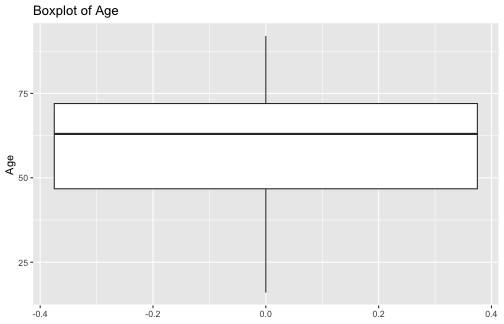
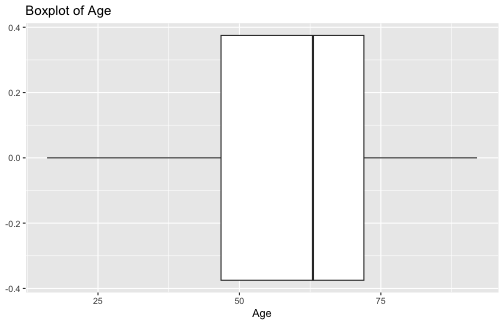
update readme links

diff --git a/Week 2/Week2-Notes.html b/Week 2/Week2-Notes.html
@@ -96,7 +96,7 @@ The "Learning Early About Peanut Allergy" (LEAP) study was conducted to investig
   - Research Question
 &lt;br&gt;
 
-If interested in this topic, you can find more information [here](https://peanutallergyfacts.org/2015/02/25/new-study-suggests-early-introduction-of-peanut-protein-reduces-prevalence-of-allergy-occurrence/)
+If interested in this topic, you can find more information [here](https://www.cnn.com/2024/05/28/health/peanut-allergy-infants-adolescents-wellness/index.html)
 
 ---
 
@@ -2134,6 +2134,108 @@ if (window.HTMLWidgets) slideshow.on('afterShowSlide', function (slide) {
           /* When the user clicks on the modalImg, close it*/
           modalImgicecream2.onclick = function() {
             modalicecream2.style.display = 'none';
+          }
+</script>
+<script>
+        /* Get the modal*/
+          var modalicecream2 = document.getElementById('modalicecream2');
+        /* Get the image and insert it inside the modal - use its 'alt' text as a caption*/
+        var imgicecream2 = document.getElementById('imgicecream2');
+          var modalImgicecream2 = document.getElementById('imgmodalicecream2');
+          var captionTexticecream2 = document.getElementById('captionicecream2');
+          imgicecream2.onclick = function(){
+            modalicecream2.style.display = 'block';
+            modalImgicecream2.src = this.src;
+            captionTexticecream2.innerHTML = this.alt;
+          }
+          /* When the user clicks on the modalImg, close it*/
+          modalImgicecream2.onclick = function() {
+            modalicecream2.style.display = 'none';
+          }
+</script>
+<script>
+        /* Get the modal*/
+          var modalcategorical = document.getElementById('modalcategorical');
+        /* Get the image and insert it inside the modal - use its 'alt' text as a caption*/
+        var imgcategorical = document.getElementById('imgcategorical');
+          var modalImgcategorical = document.getElementById('imgmodalcategorical');
+          var captionTextcategorical = document.getElementById('captioncategorical');
+          imgcategorical.onclick = function(){
+            modalcategorical.style.display = 'block';
+            modalImgcategorical.src = this.src;
+            captionTextcategorical.innerHTML = this.alt;
+          }
+          /* When the user clicks on the modalImg, close it*/
+          modalImgcategorical.onclick = function() {
+            modalcategorical.style.display = 'none';
+          }
+</script>
+<script>
+        /* Get the modal*/
+          var modalnumerical = document.getElementById('modalnumerical');
+        /* Get the image and insert it inside the modal - use its 'alt' text as a caption*/
+        var imgnumerical = document.getElementById('imgnumerical');
+          var modalImgnumerical = document.getElementById('imgmodalnumerical');
+          var captionTextnumerical = document.getElementById('captionnumerical');
+          imgnumerical.onclick = function(){
+            modalnumerical.style.display = 'block';
+            modalImgnumerical.src = this.src;
+            captionTextnumerical.innerHTML = this.alt;
+          }
+          /* When the user clicks on the modalImg, close it*/
+          modalImgnumerical.onclick = function() {
+            modalnumerical.style.display = 'none';
+          }
+</script>
+<script>
+        /* Get the modal*/
+          var modalicecream2 = document.getElementById('modalicecream2');
+        /* Get the image and insert it inside the modal - use its 'alt' text as a caption*/
+        var imgicecream2 = document.getElementById('imgicecream2');
+          var modalImgicecream2 = document.getElementById('imgmodalicecream2');
+          var captionTexticecream2 = document.getElementById('captionicecream2');
+          imgicecream2.onclick = function(){
+            modalicecream2.style.display = 'block';
+            modalImgicecream2.src = this.src;
+            captionTexticecream2.innerHTML = this.alt;
+          }
+          /* When the user clicks on the modalImg, close it*/
+          modalImgicecream2.onclick = function() {
+            modalicecream2.style.display = 'none';
+          }
+</script>
+<script>
+        /* Get the modal*/
+          var modalcategorical = document.getElementById('modalcategorical');
+        /* Get the image and insert it inside the modal - use its 'alt' text as a caption*/
+        var imgcategorical = document.getElementById('imgcategorical');
+          var modalImgcategorical = document.getElementById('imgmodalcategorical');
+          var captionTextcategorical = document.getElementById('captioncategorical');
+          imgcategorical.onclick = function(){
+            modalcategorical.style.display = 'block';
+            modalImgcategorical.src = this.src;
+            captionTextcategorical.innerHTML = this.alt;
+          }
+          /* When the user clicks on the modalImg, close it*/
+          modalImgcategorical.onclick = function() {
+            modalcategorical.style.display = 'none';
+          }
+</script>
+<script>
+        /* Get the modal*/
+          var modalnumerical = document.getElementById('modalnumerical');
+        /* Get the image and insert it inside the modal - use its 'alt' text as a caption*/
+        var imgnumerical = document.getElementById('imgnumerical');
+          var modalImgnumerical = document.getElementById('imgmodalnumerical');
+          var captionTextnumerical = document.getElementById('captionnumerical');
+          imgnumerical.onclick = function(){
+            modalnumerical.style.display = 'block';
+            modalImgnumerical.src = this.src;
+            captionTextnumerical.innerHTML = this.alt;
+          }
+          /* When the user clicks on the modalImg, close it*/
+          modalImgnumerical.onclick = function() {
+            modalnumerical.style.display = 'none';
           }
 </script>
 <script>

diff --git a/Week 2/js-addins.html b/Week 2/js-addins.html
@@ -2974,3 +2974,105 @@
             modalicecream2.style.display = 'none';
           }
 </script>
+<script>
+        /* Get the modal*/
+          var modalcategorical = document.getElementById('modalcategorical');
+        /* Get the image and insert it inside the modal - use its 'alt' text as a caption*/
+        var imgcategorical = document.getElementById('imgcategorical');
+          var modalImgcategorical = document.getElementById('imgmodalcategorical');
+          var captionTextcategorical = document.getElementById('captioncategorical');
+          imgcategorical.onclick = function(){
+            modalcategorical.style.display = 'block';
+            modalImgcategorical.src = this.src;
+            captionTextcategorical.innerHTML = this.alt;
+          }
+          /* When the user clicks on the modalImg, close it*/
+          modalImgcategorical.onclick = function() {
+            modalcategorical.style.display = 'none';
+          }
+</script>
+<script>
+        /* Get the modal*/
+          var modalnumerical = document.getElementById('modalnumerical');
+        /* Get the image and insert it inside the modal - use its 'alt' text as a caption*/
+        var imgnumerical = document.getElementById('imgnumerical');
+          var modalImgnumerical = document.getElementById('imgmodalnumerical');
+          var captionTextnumerical = document.getElementById('captionnumerical');
+          imgnumerical.onclick = function(){
+            modalnumerical.style.display = 'block';
+            modalImgnumerical.src = this.src;
+            captionTextnumerical.innerHTML = this.alt;
+          }
+          /* When the user clicks on the modalImg, close it*/
+          modalImgnumerical.onclick = function() {
+            modalnumerical.style.display = 'none';
+          }
+</script>
+<script>
+        /* Get the modal*/
+          var modalicecream2 = document.getElementById('modalicecream2');
+        /* Get the image and insert it inside the modal - use its 'alt' text as a caption*/
+        var imgicecream2 = document.getElementById('imgicecream2');
+          var modalImgicecream2 = document.getElementById('imgmodalicecream2');
+          var captionTexticecream2 = document.getElementById('captionicecream2');
+          imgicecream2.onclick = function(){
+            modalicecream2.style.display = 'block';
+            modalImgicecream2.src = this.src;
+            captionTexticecream2.innerHTML = this.alt;
+          }
+          /* When the user clicks on the modalImg, close it*/
+          modalImgicecream2.onclick = function() {
+            modalicecream2.style.display = 'none';
+          }
+</script>
+<script>
+        /* Get the modal*/
+          var modalcategorical = document.getElementById('modalcategorical');
+        /* Get the image and insert it inside the modal - use its 'alt' text as a caption*/
+        var imgcategorical = document.getElementById('imgcategorical');
+          var modalImgcategorical = document.getElementById('imgmodalcategorical');
+          var captionTextcategorical = document.getElementById('captioncategorical');
+          imgcategorical.onclick = function(){
+            modalcategorical.style.display = 'block';
+            modalImgcategorical.src = this.src;
+            captionTextcategorical.innerHTML = this.alt;
+          }
+          /* When the user clicks on the modalImg, close it*/
+          modalImgcategorical.onclick = function() {
+            modalcategorical.style.display = 'none';
+          }
+</script>
+<script>
+        /* Get the modal*/
+          var modalnumerical = document.getElementById('modalnumerical');
+        /* Get the image and insert it inside the modal - use its 'alt' text as a caption*/
+        var imgnumerical = document.getElementById('imgnumerical');
+          var modalImgnumerical = document.getElementById('imgmodalnumerical');
+          var captionTextnumerical = document.getElementById('captionnumerical');
+          imgnumerical.onclick = function(){
+            modalnumerical.style.display = 'block';
+            modalImgnumerical.src = this.src;
+            captionTextnumerical.innerHTML = this.alt;
+          }
+          /* When the user clicks on the modalImg, close it*/
+          modalImgnumerical.onclick = function() {
+            modalnumerical.style.display = 'none';
+          }
+</script>
+<script>
+        /* Get the modal*/
+          var modalicecream2 = document.getElementById('modalicecream2');
+        /* Get the image and insert it inside the modal - use its 'alt' text as a caption*/
+        var imgicecream2 = document.getElementById('imgicecream2');
+          var modalImgicecream2 = document.getElementById('imgmodalicecream2');
+          var captionTexticecream2 = document.getElementById('captionicecream2');
+          imgicecream2.onclick = function(){
+            modalicecream2.style.display = 'block';
+            modalImgicecream2.src = this.src;
+            captionTexticecream2.innerHTML = this.alt;
+          }
+          /* When the user clicks on the modalImg, close it*/
+          modalImgicecream2.onclick = function() {
+            modalicecream2.style.display = 'none';
+          }
+</script>

diff --git a/Week 3/Week3-Notes.html b/Week 3/Week3-Notes.html
@@ -79,7 +79,7 @@ Choosing an effective data display is a much a science as an art.
 ---
 ### A Quick Note on Good Graphics
 
-Visualization is a method to communicate patterns in data to a wider audience. To do this effectively, the visualizations must be clear, honest, and efficient.
+Visualization is a method to communicate patterns in data to a wider audience. To do this effectively, they must be clear, honest, and efficient.
 
 A Few Principles:
 
@@ -89,18 +89,8 @@ A Few Principles:
 - Make graphical elements clear
 
 
-
-Note:
-
-- All R code for producing the graphics and data summaries will use the `tidyverse` and `mosaic` libraries. The code can be found in the provided file in BlueLine, so you should be able to reproduce these graphics at home.
-
----
-### A Bad Graphic: COVID-19
-
 .center[
-
-
-&lt;img src="../Week 3/images/bad-pie.png" width="75%" /&gt;
+&lt;img src="../Week 3/images/bad-pie.png" width="50%" /&gt;
 
 ]
 
@@ -120,6 +110,12 @@ Data for a sample of 200 patients at an Intensive Care Unit (ICU). The data set 
 - Type: Elective/Emergency
 
 **Let's read in the data together**
+
+&lt;br&gt;
+
+Note:
+
+- All R code for producing the graphics and data summaries will use the `tidyverse` and `mosaic` libraries. The code can be found in the provided file in BlueLine (`Week3-Notes.R`), so you should be able to reproduce these graphics at home.
 
 
 ---
@@ -260,15 +256,11 @@ Another way to describe the Variability:
   
 The definition of IQR is related to a boxplot and one of the way to define outliers.
 
----
-### IQR and Boxplots
-  
-  
-  
+
 .center[
 
 
-&lt;img src="../Week 3/images/IQR.png" width="65%" /&gt;
+&lt;img src="../Week 3/images/iqr-box.png" width="65%" /&gt;
 
 ]
 
@@ -302,7 +294,7 @@ We will use the `ggplot` package to create plots in `R`
 
 
 ``` r
-data %&gt;% ggplot(aes(y = Age)) + 
+data %&gt;% ggplot(aes(x = Age)) + 
 * geom_boxplot() +
   ggtitle("Boxplot of Age")
 ```
@@ -786,46 +778,6 @@ Does having a transplant relate to whether people have any chronic diseases? Exp
 
 ![](Week3-Notes_files/figure-html/unnamed-chunk-45-1.png)&lt;!-- --&gt;
 ]
-
----
-
-## Warnings vs. Errors
-
-+ Routinely beginners to R panic if they see a red message as innocuous as confirming that a library loaded
-  - Not all red text means that there is an error!
-
-+ A *warning* is a message that does not disturb the program flow but is displayed along with the output
-
-  - Not always a cause for concern
-
-+ An *error* will terminate a program from being ran
-
-+ Google is a beautiful thing
-
----
-## Some Common Errors
-
-Like all the other programming language, R sometimes will generate errors or the output may not be the one you want. There are multiple reasons for that. Here is some common type of errors: 
-
-1. "could not find function" errors, usually caused by typos or not loading a required package
-
-2. "Error in eval" or "object not found" errors, caused by references to objects that don't exist
-  - Could be due to misspelling
-
-3. "cannot open" errors, caused by attempts to read a file that doesn't exist or can't be accessed (wrong file path)
-
-4. "no applicable method" errors, caused by using an object-oriented function on a data type it doesn't support
- - Ex. Taking a mean of a character value
-
-5. "subscript out of bounds" errors, caused by trying to access an element or dimension that doesn't exist
-
-
----
-## Learning to code can be challenging
-
-&lt;img src="../Week 1/images/debug.png" width="1175" /&gt;
-
-Artwork by @allison_horst
 
     </textarea>
 <style data-target="print-only">@media screen {.remark-slide-container{display:block;}.remark-slide-scaler{box-shadow:none;}}</style>

diff --git a/README.html b/README.html
@@ -398,7 +398,15 @@ Collection</a></td>
 <td><a href="Week%202/Intro-to-Data-and-Data-Collection.R">R
 File</a></td>
 <td><strong>Lab 1</strong> due Friday August 30 at 11:59 pm
- <strong>Homework 1</strong> due Thursday September 5 at 11:59 pm</td>
+<strong>Homework 1</strong> due Thursday September 5 at 11:59</td>
+</tr>
+<tr class="even">
+<td>8/29/2024</td>
+<td><strong>Lab 1 Work Day</strong></td>
+<td></td>
+<td></td>
+<td><strong>Lab 1</strong> due Friday August 30 at 11:59 pm
+<strong>Homework 1</strong> due Thursday September 5 at 11:59</td>
 </tr>
 </tbody>
 </table>

diff --git a/README.md b/README.md
@@ -8,4 +8,5 @@ Date | Notes | Description | Additional Files | Homework Assigned
 ---- | ---- | --- | --- | ---
 8/20/2024 | [Welcome to Mth 361](Week 1/Intro-to-361.html) | Class Introductions | | 
 8/22/2024 | [Introducing R](Week 1/IntroR.html) | R Basics| [R File](Week 1/IntroR.R)| 
-8/27/2024 | [Introduction to Data and Data Collection](Week 2/Week2-Notes.html) | Describing variables and how to collect data| [R File](Week 2/Intro-to-Data-and-Data-Collection.R)| **Lab 1** due Friday August 30 at 11:59 pm \ **Homework 1** due Thursday September 5 at 11:59 pm
+8/27/2024 | [Introduction to Data and Data Collection](Week 2/Week2-Notes.html) | Describing variables and how to collect data| [R File](Week 2/Intro-to-Data-and-Data-Collection.R)| **Lab 1** due Friday August 30 at 11:59 pm  **Homework 1** due Thursday September 5 at 11:59| 
+8/29/2024 | **Lab 1 Work Day** | | | **Lab 1** due Friday August 30 at 11:59 pm  **Homework 1** due Thursday September 5 at 11:59|
